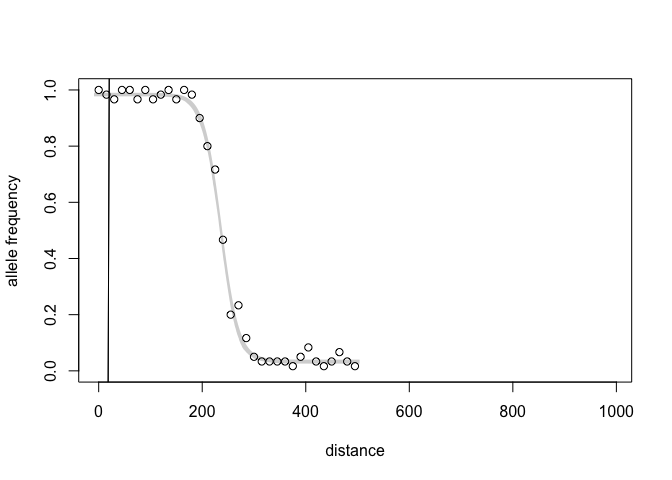
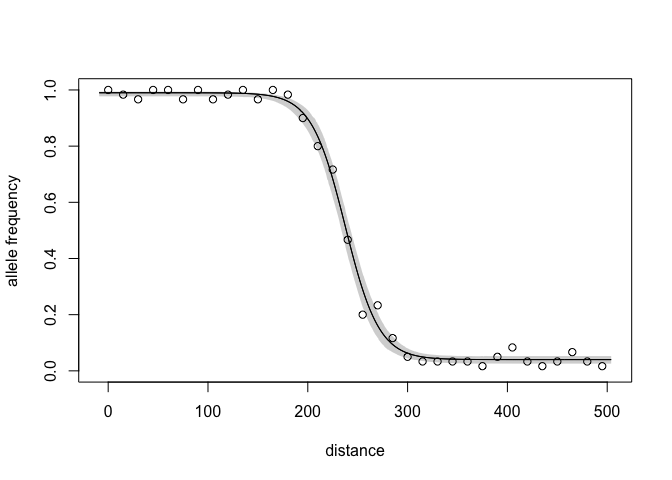
version bump: median and ET functionality in plot cline
ready to merge to develop. Updated description, news, and readme

diff --git a/README.md b/README.md
@@ -137,9 +137,10 @@ plot_cline(stanfit = cline.fit, data = data,
 <img src="man/figures/README-unnamed-chunk-3-1.png" width="100%" />
 
 For users who wish to make higher-quality, customized plots, bahz has a
-helper function to calculate predicted allele frequencies and confidence
-intervals from fitted clines. Those data can then be used in the
-plotting system of the user’s choice, e.g.:
+helper function to calculate predicted allele frequencies for the
+best-fit line (using either the posterior means or posterior medians for
+each parameter) and confidence intervals from fitted models. Those data
+can then be used in the plotting system of the user’s choice, e.g.:
 
 ``` r
 pred_cline <- predict_cline(stanfit = cline.fit, 

diff --git a/NEWS.md b/NEWS.md
@@ -1,3 +1,13 @@
+# bahz 0.0.0.9017
+
+New features/changes:
+
+* `cline_summary()` now provides both posterior means and posterior medians for each parameter.
+
+* `predict_cline()` outputs best fit estimates based on both posterior means and posterior medians, and `plot_cline()` can plot best-fit lines based on either of these best-fit estimates (defaults to posterior means).
+
+* `predict_cline()` and `plot_cline()` can now output both HPDI credible intervals (the default) and equal-tail (ET) credible intervals.
+
 # bahz 0.0.0.9016
 
 Changes:
@@ -5,7 +15,6 @@ Changes:
 * Deleting unnecessary files that prevented installation on Windows and Linux.
 
 * Remake corrupted file in test suite.
-
 
 # bahz 0.0.0.9015
 
